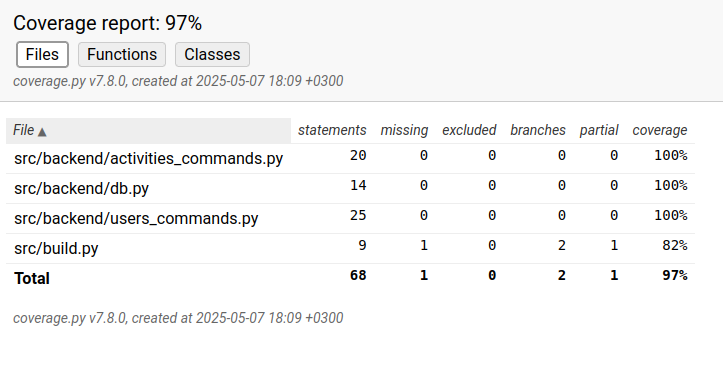
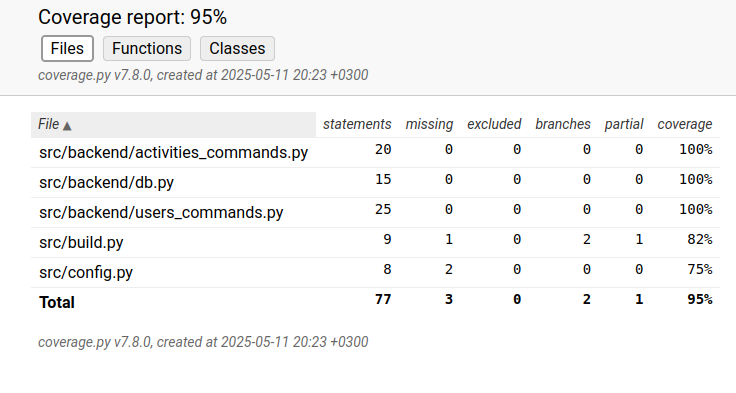
Updated the configuration and testing

diff --git a/src/tests/activities_commands_test.py b/src/tests/activities_commands_test.py
@@ -1,5 +1,6 @@
 import unittest
 import backend.activities_commands
+import build
 
 class TestIndex(unittest.TestCase):
 
@@ -9,6 +10,7 @@ class TestIndex(unittest.TestCase):
         self.tracker = 2
         self.training_type = "Endurance"
         self.user_id = 1
+        build.initialize_database()
         backend.activities_commands.add_activity(self.activity, self.tracker, self.training_type, self.user_id)
     
     def test_edit_activity(self):
@@ -19,7 +21,7 @@ class TestIndex(unittest.TestCase):
 
     def test_get_activities(self):
         result = backend.activities_commands.get_activities(self.user_id)
-        self.assertEqual((self.id, self.activity, 7, self.training_type, self.user_id), result[0])
+        self.assertEqual((self.id, self.activity, self.tracker, self.training_type, self.user_id), result[0])
 
     def test_delete_activity(self):
         backend.activities_commands.delete_activity(self.activity, self.tracker, self.training_type, self.user_id)

diff --git a/src/backend/db.py b/src/backend/db.py
@@ -1,9 +1,10 @@
 import sqlite3
+from config import DATABASE_FILENAME
 
 def get_connection():
-    """Luo yhteyden tiedostoon database.db."""
+    """Luo yhteyden tietokantaan."""
 
-    con = sqlite3.connect("database.db")
+    con = sqlite3.connect(DATABASE_FILENAME)
     return con
 
 def execute(sql, params=[]):

diff --git a/src/config.py b/src/config.py
@@ -1,0 +1,11 @@
+import os
+from dotenv import load_dotenv
+
+dirname = os.path.dirname(__file__)
+
+try:
+    load_dotenv(dotenv_path=os.path.join(dirname, "..", ".env"))
+except FileNotFoundError:
+    pass
+
+DATABASE_FILENAME = os.getenv("DATABASE_FILENAME") or "database.db"

diff --git a/dokumentaatio/testaus.md b/dokumentaatio/testaus.md
@@ -4,11 +4,11 @@ Ohjelmaa on testattu unittestin avulla. Sovelluksen toiminnallisuutta on testatt
 
 ## Testikattavuus
 
-Sovelluksen testauksen haarautumakattavuus on 97%. Testaus ei sisältänyt käyttöliittymän tiedostoja.
+Sovelluksen testauksen haarautumakattavuus on 95%. Testaus ei sisältänyt käyttöliittymän tiedostoja.
 
 ![](Kuvat/Testikattavuus.png)
 
-Tiedostoille activities-commands.py, users-commands.py, sekä build.py on omat testitiedostonsa. db.py tiedostoa käytetään activities-commands ja users-commands tiedostoissa, joten sen testaus tapahtui näiden tiedostojen kautta. build.py tiedoston testaus kattoi pienen osan activities-commands ja users-commands tiedostojen funktioiden testaamisesta.
+Tiedostoille activities-commands.py, users-commands.py, sekä build.py on omat testitiedostonsa. db.py tiedostoa käytetään activities-commands ja users-commands tiedostoissa, joten sen testaus tapahtui näiden tiedostojen kautta. build.py tiedoston testaus kattoi pienen osan activities-commands ja users-commands tiedostojen funktioiden testaamisesta. config.py tiedoston toimivuus tulee testattua kaikissa muissa testeissä.
 
 ## Sovelluksen toiminnallisuuden testaus
 
@@ -16,4 +16,5 @@ Kaikki sovelluksen toiminnallisuudet on testattu manuaalisesti kokeilemalla syö
 
 ## Sovellukseen jääneet ongelmat
 
-Sovellus vaatii README-tiedostossa mainitut alustukset, eikä välttämättä osaa ilmoittaa järkevästi niiden puuttumisesta. Esimerkiksi jos tietokantaa ei ole alustettu käskyllä `poetry run invoke build`, sovellus kyllä käynnistyy, mutta kaatuu heti kun tietokantaan täytyisi päästä käsiksi. 
+- Sovellus vaatii README-tiedostossa mainitut alustukset, eikä välttämättä osaa ilmoittaa järkevästi niiden puuttumisesta. Esimerkiksi jos tietokantaa ei ole alustettu käskyllä `poetry run invoke build`, sovellus kyllä käynnistyy, mutta kaatuu heti kun tietokantaan täytyisi päästä käsiksi. 
+- config.py tiedoston FileNotFoundErroria ei ole testattu.
